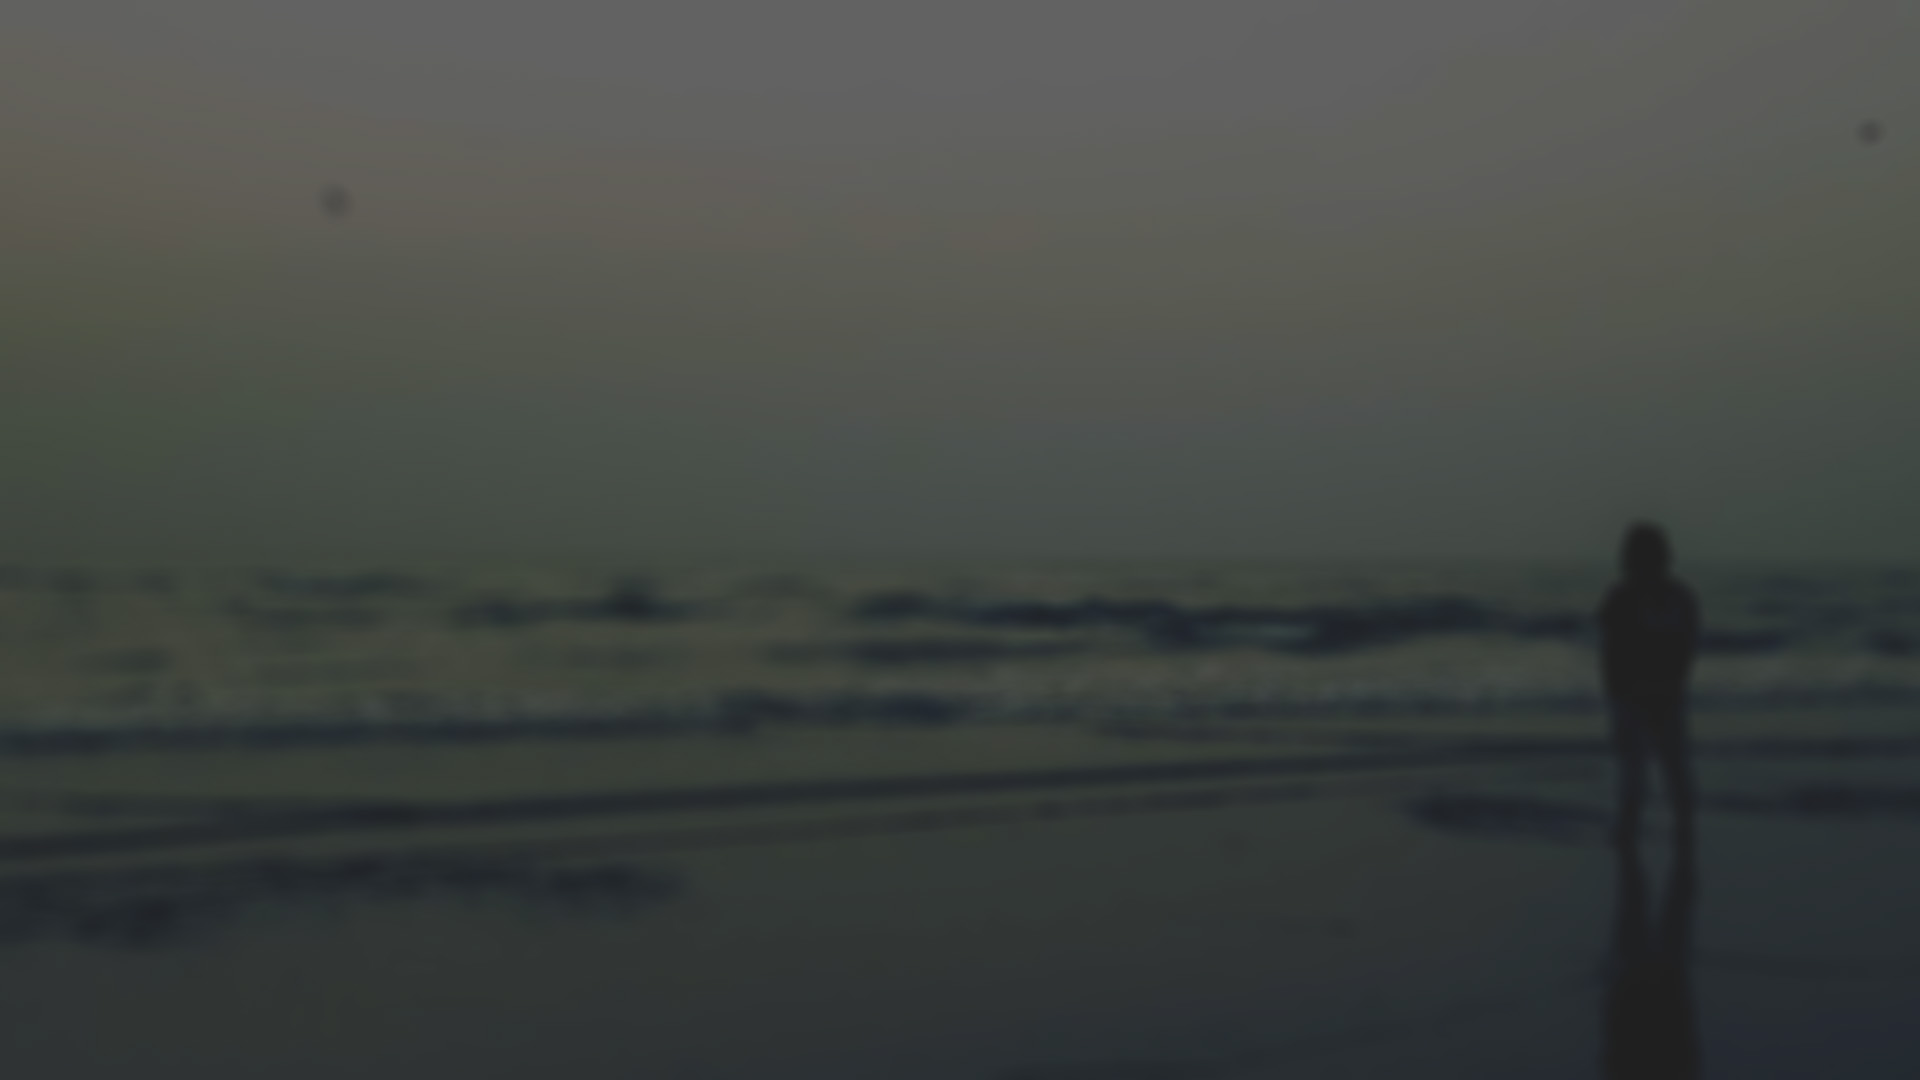
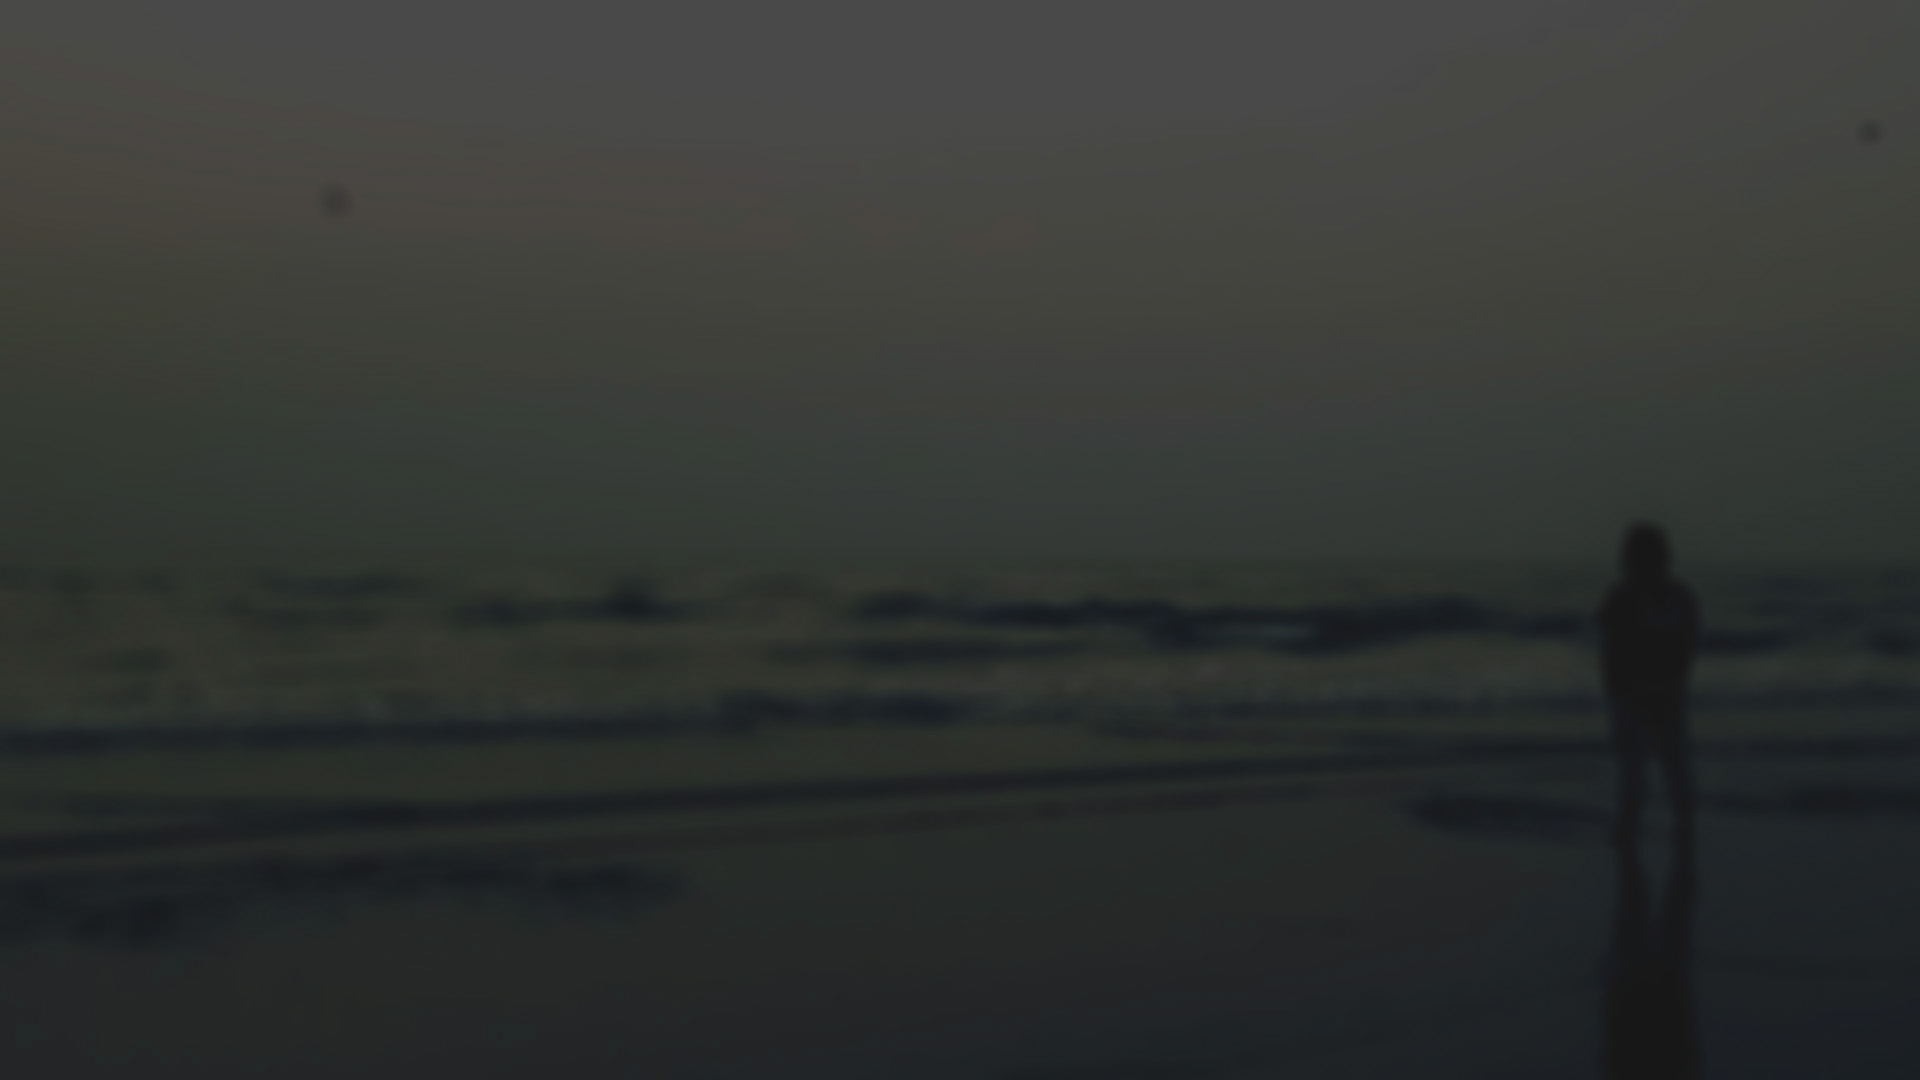
returned bg

Changed region(s): [[0.0, 0.0, 0.6875, 0.2444], [0.5938, 0.1833, 0.625, 0.2139]]

diff --git a/assets/css/style.css b/assets/css/style.css
@@ -14,7 +14,7 @@ body {
 body::before {
   content: "";
   position: fixed;
-  background: #040404 /*url("../img/bg.jpg") top right no-repeat*/;
+  background: #040404 url("../img/bg.jpg") top right no-repeat;
   background-size: cover;
   left: 0;
   right: 0;
